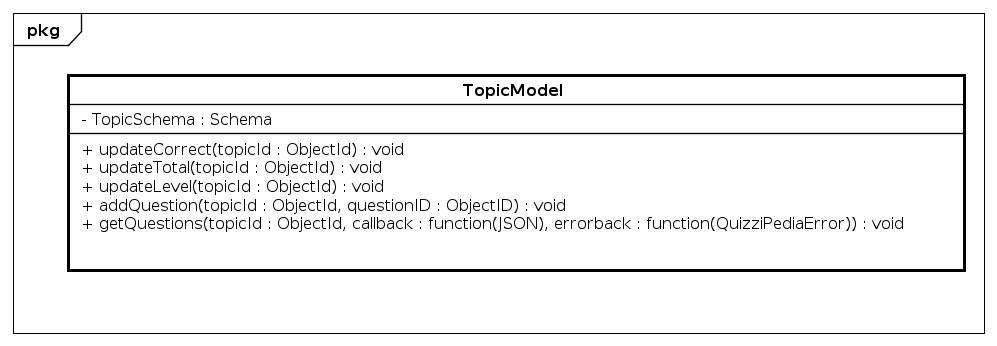
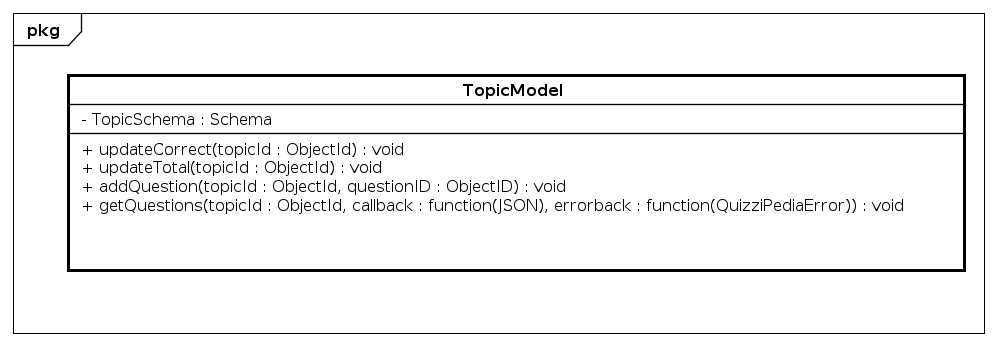
topicModel e topicController aggiornati

Changed region(s): [[0.0933, 0.5202, 0.9017, 0.6647]]

diff --git a/RP/DefinizioneDiProdotto/sezioni/Back-End/Models/TopicModel.tex b/RP/DefinizioneDiProdotto/sezioni/Back-End/Models/TopicModel.tex
@@ -7,9 +7,9 @@
 \end{figure}
 \begin{itemize}
 	\item \textbf{Descrizione} \\
-	Classe che modella gli argomenti all'interno dell'applicazione.
+	Classe che modella gli argomenti all'interno delle domande.
 	\item \textbf{Utilizzo} \\
-	Viene utilizzata per rappresentare i dati relativi agli argomenti all'interno dell'applicazione. Si interfaccia con la libreria \textit{Mongoose\ped{G}} per la creazione dello schema e dei relativi metodi statici o di istanza.
+	Viene utilizzata per rappresentare i dati relativi agli argomenti delle domande. Si interfaccia con la libreria \textit{Mongoose\ped{G}} per la creazione dello schema e dei relativi metodi statici o di istanza.
 	\item \textbf{Relazioni con altre classi}
 		\begin{itemize}
 			\item \textbf{IN \texttt{QuestionModel}} \\
@@ -20,27 +20,45 @@
 	\item \textbf{Attributi}
 		\begin{itemize}
 			\item \textbf{- topicSchema: Schema} \\
-			Questo campo dati rappresenta lo schema \textit{Mongoose\ped{G}} degli argomenti di \progetto. Lo schema prevede i seguenti attributi:
+			Questo campo dati rappresenta lo schema \textit{Mongoose\ped{G}} per gli argomenti e prevede i seguenti attributi:
 				\begin{itemize}
 					\item \texttt{name} di tipo \texttt{String}, rappresenta il nome dell'argomento;
-					\item \texttt{level} di tipo \texttt{Number}, rappresenta il livello medio degli utenti che hanno svolto almeno un allenamento dell'argomento;
-					\item \texttt{correctAnswers} di tipo \texttt{Number}, rappresenta il numero totale di domande che gli utenti hanno risposto correttamente durante un allenamento dell'argomento; 
-					\item \texttt{totalAnswers} di tipo \texttt{Number}, rappresenta il numero totale di domande che gli utenti hanno risposto durante un allenamento dell'argomento;
-					\item \texttt{question} di tipo \texttt{Array}, contiene oggetti di tipo \texttt{Question} che rappresentano i riferimenti agli identificativi nel database delle domande appartenenti all'argomento;
-					\item \texttt{keywords} di tipo \texttt{Array}, contiene oggetti di tipo \texttt{String} che identificano le parole chiave contenute nelle domande appartenenti all'argomento.
+					\item \texttt{correctAnswers} di tipo \texttt{Number}, rappresenta il numero totale di domande alle quali gli utenti hanno risposto correttamente durante un allenamento sull'argomento; 
+					\item \texttt{totalAnswers} di tipo \texttt{Number}, rappresenta il numero totale di domande alle quali gli utenti hanno risposto durante un allenamento sull'argomento;
+					\item \texttt{question} di tipo \texttt{Array}, contiene gli \texttt{ObjectId} delle domande sull'argomento.
 				\end{itemize}
 		\end{itemize}
 	\item \textbf{Metodi}
 		\begin{itemize}
-			\item \texttt{+ updateCorrect() : void} \\
-			Aumenta un contatore che tiene aggiornato il numero totale di risposte esatte a domande appartenenti all'argomento;
-			\item \texttt{+ updateTotal(): void} \\
-			Aumenta un contatore che tiene aggiornato il numero totale di risposte appartenenti all'argomento;
-			\item \texttt{+ addKeyword(keyword:String) : void} \\
-			Aggiunge una parola chiave all'argomento;
-			\item \texttt{+ updateLevel() : void} \\
-			Aggiorna il livello di difficoltà generale dell'argomento;
-			\item \texttt{+ addQuestion(questionID : ObjectID) : void} \\
-			Aggiunge un riferimento ad una domanda;
+			\item \texttt{+ updateCorrect(topicId : ObjectId) : void} \\
+			Metodo che consente di tenere aggiornato il numero di risposte esatte date a domande sull'argomento. \\
+			\begin{itemize}
+			\item \texttt{topicId : ObjectId} \\
+			Rappresenta l'identificativo dell'argomento da aggiornare.
+			\end{itemize}
+			\item \texttt{+ updateTotal(topicId : ObjectId): void} \\
+			Metodo che consente di tenere aggiornato il numero totale di risposte date a domande sull'argomento. \\
+			\begin{itemize}
+			\item \texttt{topicId : ObjectId} \\
+			Rappresenta l'identificativo dell'argomento da aggiornare.
+			\end{itemize}
+			\item \texttt{+ addQuestion(topicId : ObjectId, questionID : ObjectID) : void} \\
+			Metodo che consente di aggiunge una domanda tra le domande sull'argomento. \\
+			\begin{itemize}
+			\item \texttt{topicId : ObjectId} \\
+			Rappresenta l'identificativo dell'argomento da aggiornare;
+			\item \texttt{questionId : ObjectId} \\
+			Rappresenta l'identificativo della domanda da aggiungere.
+			\end{itemize}
+			\item \texttt{+ getQuestions(topicId : ObjectId, callback : function(JSON), errback : function(QuizziPediaError)) : void} \\
+			Metodo che consente di ottenere le domande sull'argomento attraverso la funzione di callback oppure un messaggio di errore. \\
+			\begin{itemize}
+			\item \texttt{topicId : ObjectId} \\
+			Rappresenta l'identificativo dell'argomento da aggiornare;
+			\item \texttt{callback : function(JSON)} \\
+			Rappresenta la callback che il metodo deve chiamare al termine dell'elaborazione nel caso in cui non si siano verificati errori;
+			\item \texttt{errback : function(QuizziPediaError)} \\
+			Rappresenta la callback che il metodo deve chiamare qualora si verificassero errori durante l'esecuzione del metodo.
+			\end{itemize}
 		\end{itemize}
 \end{itemize}

diff --git a/RP/DefinizioneDiProdotto/sezioni/Back-End/Controllers/TopicController.tex b/RP/DefinizioneDiProdotto/sezioni/Back-End/Controllers/TopicController.tex
@@ -1,0 +1,54 @@
+\paragraph{QuizziPedia::Back-End::App::Controllers::TopicController}
+\label{QuizziPedia::Back-End::App::Controllers::TopicController}
+\begin{figure}
+	\centering
+	\includegraphics[scale=0.45]{UML/Package/QuizziPedia_Back-End_App_Controllers_topicController.png}
+	\caption{QuizziPedia::Back-End::App::Models::Controllers::TopicController}
+\end{figure}
+\begin{itemize}
+	\item \textbf{Descrizione} \\
+	Classe che gestisce la logica applicativa riguardante la visualizzazione e la modifica degli argomenti delle domande.
+	\item \textbf{Utilizzo} \\
+	Viene utilizzata per implementare le funzionalità necessarie a gestire le richieste REST legate agli argomenti delle domande.
+	\item \textbf{Relazioni con altre classi}
+		\begin{itemize}
+			\item \textbf{OUT \texttt{TopicModel}} \\
+			Classe che modella gli argomenti delle domande.
+		\end{itemize}
+	\item \textbf{Metodi}
+		\begin{itemize}
+			\item \texttt{+ updateTopic(req : Request, res : Response, next : function(QuizziPediaError))} \\
+			Aggiorna il numero di risposte esatte e totali date a domande sull'argomento da parte degli utenti. \\
+			\textbf{Parametri}:
+			\begin{itemize}
+			\item \texttt{req: Request} \\
+			Rappresenta la richiesta inviata al server. Contiene l'identificativo dell'argomento da aggiornare e l'informazione di se è stata data o meno una risposta corretta alla domanda su quell'argomento;
+			\item \texttt{res: Response} \\
+			Rappresenta la risposta che il server fornirà al termine dell'esecuzione del metodo;
+			\item \texttt{next: function(QuizziPediaError)} \\
+			Rappresenta la callback che il metodo deve chiamare al termine dell'elaborazione per passare il controllo ai successivi middleware. La presenza del parametro facoltativo QuizziPediaError attiva la catena di gestione dell'errore in sostituzione della normale catena di gestione delle richieste.
+			\end{itemize}
+			\item \texttt{+ addQuestion(req : Request, res : Response, next : function(QuizziPediaError))} \\
+			Aggiunge una domanda tra le domande sull'argomento.  \\
+			\textbf{Parametri}:
+			\begin{itemize}
+			\item \texttt{req: Request} \\
+			Rappresenta la richiesta inviata al server. Contiene l'identificativo della domanda creata da un utente e l'identificativo dell'argomento che tratta;
+			\item \texttt{res: Response} \\
+			Rappresenta la risposta che il server fornirà al termine dell'esecuzione del metodo;
+			\item \texttt{next: function(QuizziPediaError)} \\
+			Rappresenta la callback che il metodo deve chiamare al termine dell'elaborazione per passare il controllo ai successivi middleware. La presenza del parametro facoltativo QuizziPediaError attiva la catena di gestione dell'errore in sostituzione della normale catena di gestione delle richieste.
+			\end{itemize}
+			\item \texttt{+ getQuestions(req : Request, res : Response, next : function(QuizziPediaError))} \\
+			Restituisce le domande sull'argomento.  \\
+			\textbf{Parametri}:
+			\begin{itemize}
+			\item \texttt{req: Request} \\
+			Rappresenta la richiesta inviata al server. Contiene l'identificativo dell'argomento trattato dalle domande che si vuole ottenere;
+			\item \texttt{res: Response} \\
+			Rappresenta la risposta che il server fornirà al termine dell'esecuzione del metodo;
+			\item \texttt{next: function(QuizziPediaError)} \\
+			Rappresenta la callback che il metodo deve chiamare al termine dell'elaborazione per passare il controllo ai successivi middleware. La presenza del parametro facoltativo QuizziPediaError attiva la catena di gestione dell'errore in sostituzione della normale catena di gestione delle richieste.
+			\end{itemize}
+		\end{itemize}
+\end{itemize}

diff --git a/RP/DefinizioneDiProdotto/sezioni/Front-End/QuizziPedia_Front-End_Templates.tex b/RP/DefinizioneDiProdotto/sezioni/Front-End/QuizziPedia_Front-End_Templates.tex
@@ -6,7 +6,7 @@
 
 	\begin{figure}[h]
 		\centering
-		\includegraphics[scale=0.5,keepaspectratio]{UML/Package/QuizziPedia_Front-end_Templates.png}
+		\includegraphics[scale=0.5,keepaspectratio]{UML/Package/QuizziPedia_Front-End_Templates.png}
 		\caption{QuizziPedia::Front-End::Templates}
 	\end{figure}
 	

diff --git a/RP/DefinizioneDiProdotto/sezioni/Front-End/QuizziPedia_Front-End_Models.tex b/RP/DefinizioneDiProdotto/sezioni/Front-End/QuizziPedia_Front-End_Models.tex
@@ -6,7 +6,7 @@
 	
 	\begin{figure}[h]
 		\centering
-		\includegraphics[scale=0.5,keepaspectratio]{UML/Package/QuizziPedia_Front-end_Models.png}
+		\includegraphics[scale=0.5,keepaspectratio]{UML/Package/QuizziPedia_Front-End_Models.png}
 		\caption{QuizziPedia::Front-End::Models}
 	\end{figure}
 

diff --git a/RP/DefinizioneDiProdotto/sezioni/Front-End/QuizziPedia_Front-End.tex b/RP/DefinizioneDiProdotto/sezioni/Front-End/QuizziPedia_Front-End.tex
@@ -3,7 +3,7 @@
 \label{QuizziPedia::Front-End}
 \begin{figure}
 	\centering
-	\includegraphics[scale=0.45]{UML/Package/QuizziPedia_Front-End.png}
+	\includegraphics[scale=0.45]{UML/Package/QuizziPedia_Front-end.png}
 	\caption{QuizziPedia::Front-End}
 \end{figure}
 
